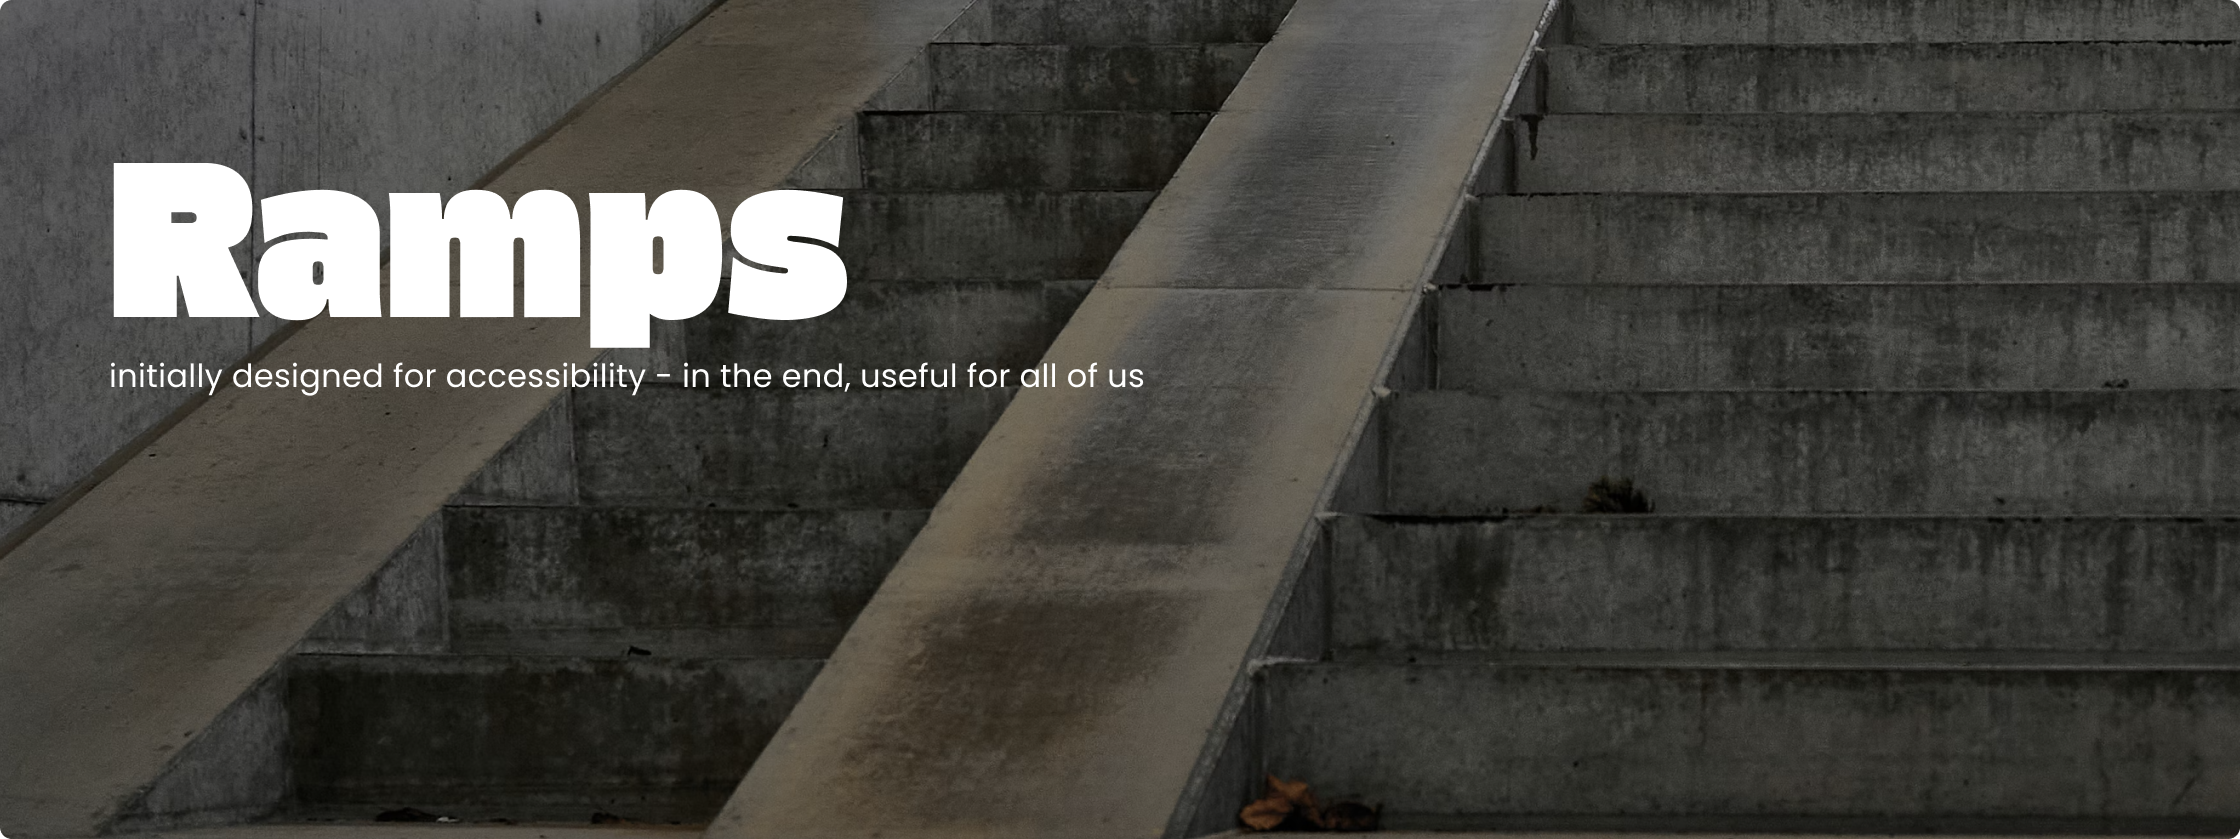
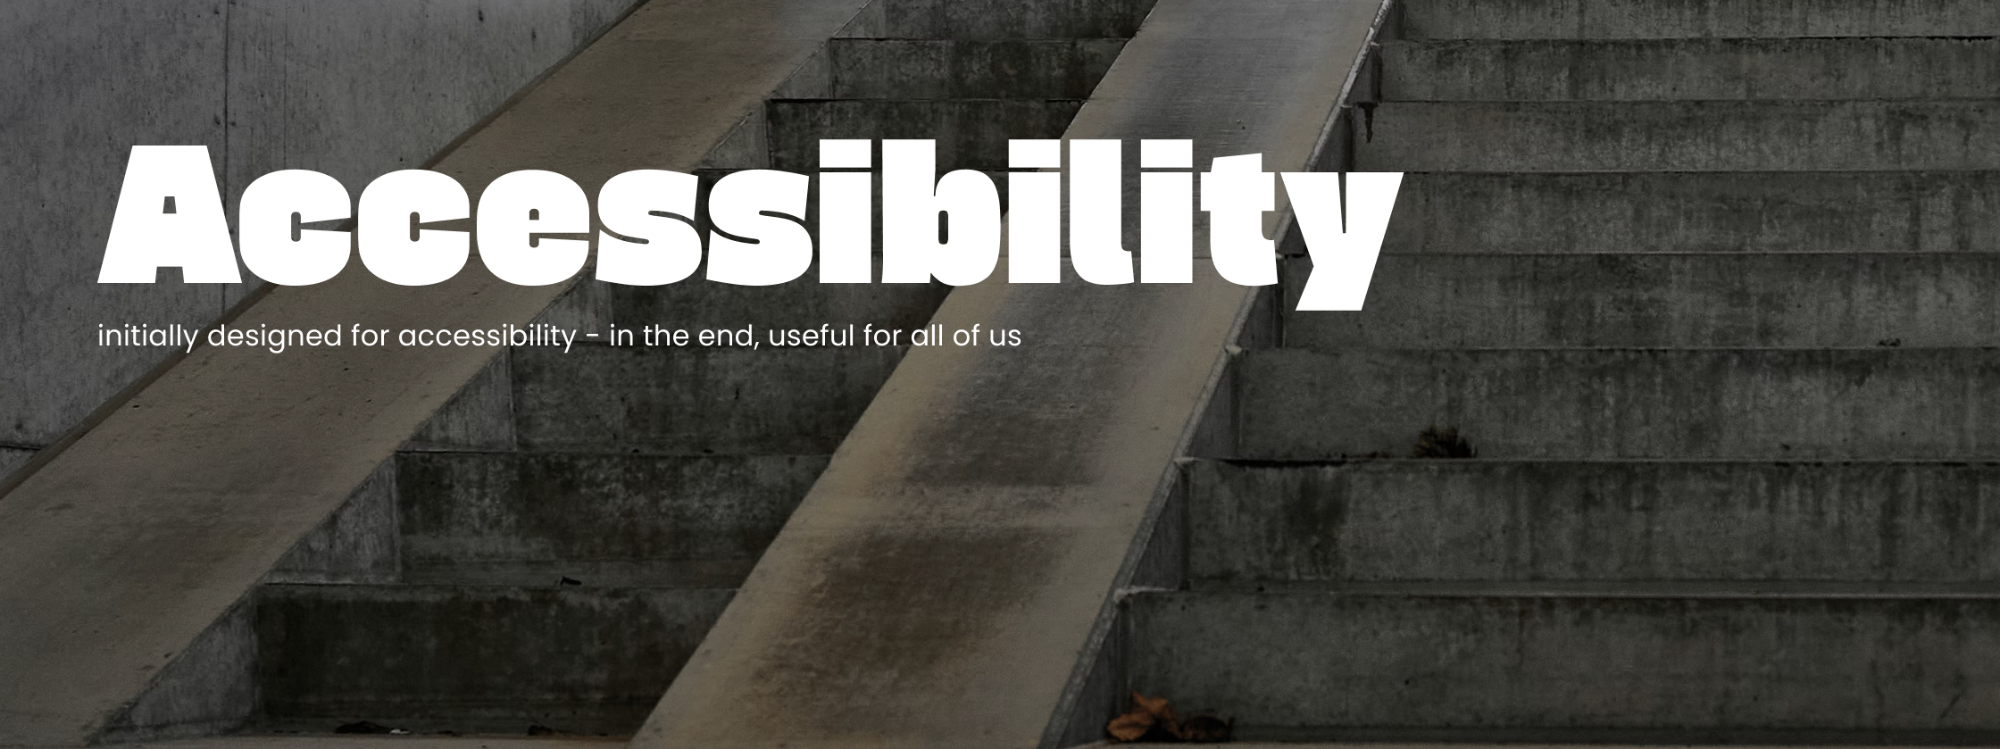
ai hackathon project added

Changed region(s): [[0.031, 0.1842, 0.713, 0.4299], [0.992, 0.9826, 1.0, 1.0]]

diff --git a/work/hackathons.html b/work/hackathons.html
@@ -48,7 +48,133 @@
                 <div class="horizontal__layout">
                     <div>
                         <div class="intro">
-                            <h1 class="intro__description">Design tokens</h1>
+                            <h1 class="intro__description">1. AI hackathon</h1>
+                        </div>
+                        <div class="section__chip__date">
+                            <!-- <div class="circle"></div> -->
+                            <p class="text__chip__section"> November 2024 project</p>
+                        </div>
+                        <p class="default__text">The story of how my team won first place at hackathon with an AI chatbot assistant capable of answering any questions about the design system. 🤖 </p>
+                    </div>
+                </div>
+            </section>
+            <div id="hackathon__heroimage"></div>
+            <img class="hero__image" src="/images/hackathon1_heroimage.webp" alt="Hero image for AI hackathon.">
+
+            <section class="section">
+                <div class="section__chip">
+                    <!-- <div class="circle"></div> -->
+                    <p class="text__chip__section"> 1/4</p>
+                </div>
+                <div class="horizontal__layout">
+                    <div class="paragraph__container">
+                        <h2 class="paragraph__title__project"> About AI hackathon </h2>
+                        <p class="default__text"> From a simple idea to create an AI chatbot to a fully implemented project that won first place at the hackathon 
+                            for the best AI idea.</p>
+                        <p class="default__text"> My colleagues created the chatbot and I helped providing the necessary informations about our
+                            design system, the process and most frequently asked questions so far. I also created the presentation 
+                            and edited the presentational video to share with all the teams.
+                        </p>
+                    </div>
+                    
+                    <div class="vertical__centered__image">
+                        <img class="photo__examples__heroimage" src="/images/ailogo.webp" alt="The design system logo.">
+                    </div>
+                </div>
+            </section>
+
+            <section class="boxes">
+                <div>
+                    <div class="kind__words">
+                        <div class="box__info">
+                            <p class="box__text"> <b>My role: </b> Design system designer </p>
+                        </div>
+                        <div class="box__info">
+                            <p class="box__text"> <b>Project duration: </b>One week</p>
+                        </div>
+                    </div>
+                </div>
+
+                <div>
+                    <div class="kind__words">
+                        <div class="box__info">
+                            <p class="box__text"> <b>The project: </b>A functional AI assistant for our design system, integrated in Microsoft Teams </p>
+                        </div>
+                        <div class="box__info">
+                            <p class="box__text"> <b>About: </b>Hackathons, Artificial intelligence (AI), trainning AI, collaboration, team work, presentation</p>
+                        </div>
+                    </div>
+                </div>
+
+                <section class="section__projects">
+                    <div class="section__chip">
+                        <!-- <div class="circle"></div> -->
+                        <p class="text__chip__section"> 2/4</p>
+                    </div>
+                    <h2 class="paragraph__title__project"> The challenging part </h2>
+                    <p class="default__text"> 👻 Training the AI can be tricky, first of all, it needs to have access to all data about our design system, and if 
+                        the information is wrong or incomplete in a place, <b>the assistant can give the users wrong data.</b> We need to communicate with the teams and be transparent about what are the limitations when using AI and what are the risks.</p>
+                    <p class="default__text"> 🖥 <b>Generate coded content with Copilot</b> using the Fusion design system components library: Teams can use the AI assistant to implement a component in their project, but it's not working perfect all the time,
+                        they still need to double check on the UI Guide and documentation.</p>
+                    <div class="centered__div__80"> 
+                    <img class="hero__image" src="/images/aboutAIAssistant.webp" alt="Fusion Assistant: Generated code, improve efficiency, your AI assistant, instant guidance, continuously evolve, always double check.">
+                    </div>
+                </section>
+
+                <section class="section__projects">
+                    <div class="section__chip">
+                        <!-- <div class="circle"></div> -->
+                        <p class="text__chip__section"> 3/4</p>
+                    </div>
+                    <div class="horizontal__layout">
+                        <div class="paragraph__container">
+                            <h2 class="paragraph__title__project"> Solving the issues </h2>
+                            <p class="default__text"> We came with the idea to create a document with the most frequently asked questions and train our AI assistant with it.
+                                We also trained it after our documentation, UI guide and implemented components.
+                            <p class="default__text">I provided questions and answers for them in order to help the chatbot:</p>
+                                "What is the difference between core components and recipe components?" <br>
+                                "I want to learn more about accessibility." <br>
+                                "What is a design system?" <br>
+                                "What’s new in the design system?" <br>
+                                "What is a disabled state?" <br>
+                                "I want a HTML template and a CSS for a page that contains: a navigation menu, a side panel and a card." <br>
+                                "What are the differences between patterns and recipes?" <br>
+                                "What is the difference between CSS tokens and CSS variables?" <br>
+                                "What is the difference between design tokens and Figma variables?" <br>
+                                "When is the next release?" <br>
+                                "How many teams are using Fusion design system at the moment?" <br>
+                                "How many components are in our design system?" </p>
+                            </div>
+                        
+                        <div class="paragraph__container">
+                            <h2 class="paragraph__title__project__right"> Why did we win? </h2>
+                            <p class="default__text">📡 We showcased strong communication through a clear and engaging presentation, along with a video that effectively demonstrated how the AI assistant works.</p>
+                            <p class="default__text">😇 We were honest and transparent about what we currently have, what isn’t working, the potential risks, and how we plan to address any issues that may arise.</p>
+                            <p class="default__text">⏰ Our idea aims to assist design system users instantly, saving them much more time compared to reaching out to the support channel. I would like to thank our manager for his support and valuable ideas that helped bring this project to life.</p>
+                        </div>
+                    </div>
+                </section>
+
+                <section class="section__projects">
+                    <div class="section__chip">
+                        <!-- <div class="circle"></div> -->
+                        <p class="text__chip__section"> 4/4</p>
+                    </div>
+                    <h2 class="paragraph__title__project"> Learnings and conclusions </h2>
+                    <p class="default__text"> 🎬 AI requires diverse datasets to handle a wide range of scenarios. If the data is too narrow, the AI may not 
+                        generalize well, causing it to fail in situations outside the training examples.</p>
+                    <p class="default__text"> 🤖 Training AI with information is a careful and iterative process that involves constant monitoring, 
+                        tweaking, and testing to achieve desired outcomes.</p>
+                    <p class="default__text"> 💪 Collaboration and synchronization with your colleagues are the most powerful tools when creating and 
+                        experimenting with something new. Thank you folks! 🩵</p>
+                </section>
+
+
+            <section class="section">
+                <div class="horizontal__layout">
+                    <div>
+                        <div class="intro">
+                            <h1 class="intro__description">2. Design tokens hackathon</h1>
                         </div>
                         <div class="section__chip__date">
                             <!-- <div class="circle"></div> -->

diff --git a/work/human-experience.html b/work/human-experience.html
@@ -146,10 +146,10 @@
                     <div>
                         <h2 class="paragraph__title__project"> Three real life examples </h2>
                         <p class="default__text"> When designers focus on specific user needs, they push themselves to think in new ways, which leads to more creative, flexible, and thoughtful solutions that end up helping more people than they first expected. </p>
-                <img class="photo__examples__heroimage" src="/images/ramp.webp" alt="Ramps: initially designed for accessibility - in the end, useful for all of us">
+                <img class="photo__examples__heroimage" src="/images/ramp.webp" alt="Accessibility: initially designed for accessibility - in the end, useful for all of us">
                 <div class="horizontal__layout">
                     <div>
-                        <p class="default__text"> <b>1.The purpose of ramps:</b> The main reason for a ramp is to help people in wheelchairs get around, but it also helps parents 
+                        <p class="default__text"> <b>1.Design with accessibility in mind:</b> The main reason for a ramp is to help people in wheelchairs get around, but it also helps parents 
                             with children in strollers, delivery workers with carts and anyone who finds stairs hard to use (and for Kung Fu Panda).</p>
                         <p class="default__text"> Awareness note: In fact, it makes things easier for everyone, not just those with special needs that are facing permanent, 
                         temporary or situational limitations.</p>
@@ -160,12 +160,13 @@
                 </div>
 
             <section class="section__projects">
-                <img class="photo__examples__heroimage" src="/images/directions.webp" alt="Directions: design a product that provide everything an end user need">
-                <p class="default__text"> <b>2.Provide clear directions: </b> When designing a product, even if it’s a physical or digital one, we need to always 
+                <img class="photo__examples__heroimage" src="/images/usability.webp" alt="Usability: design a product that is intuitive and efficient to interact with, ensuring a seamless experienced">
+                <p class="default__text"> <b>2.Think about usability: </b> When designing a product, even if it’s a physical or digital one, we need to always 
                     think about functionality and test how users interact with it. I saw a very nice touch at <a class="text-highlight" target="_blank" href="https://www.gramprague.cz/en">Gram restaurant</a> in Prague, they have glass 
                     doors and on the floor they have arrows that help you see in which direction is the door opening.</p>
-                <p class="default__text"> Awareness note: If you are visiting a country where you don't understand the language, the stickers with text: 
-                    "push/pull" on the door can be a problem. </p>
+                <p class="default__text"> Awareness note: When visiting a country where you don’t understand the language, text-only labels like "push" or "pull" 
+                    on doors can be confusing. In such cases, providing additional visual cues, such as arrows or symbols alongside the text, helps everyone 
+                    understand how to operate the door, regardless of language - this improves accessibility and reduces confusion. </p>
             </section>
 
             <section class="section__projects">

diff --git a/about.html b/about.html
@@ -72,21 +72,21 @@
                             <div class="selectedWork__entry__description">
                                 <h2 class="selectedWork__entry__description__title"> What about my skills? </h2>
                                 <p class="selectedWork__entry__description__text"> I'm always focused on solving the business problems by leveraging 
-                                my skills in user interface, accessibility, user experience and at the same time continuously working on my development
+                                my skills in user interface and user experience design, and at the same time continuously working on my development
                                 skills to better understand the dev team constraints. I am a great team player and being a design system specialist,
-                                my nature is to be transparent, inclusive, communicative, creative and always open to feedback. My work process usually
-                                goes from asking the why, research, understanding user and customer requirements, A/B testing, rapid sketching up to ready for 
-                                development designs and providing support and detailed documentation. </p>
+                                my nature is to be transparent, inclusive, communicative, creative and always open to feedback. <!-- My work process varies based 
+                                on the project, but usually goes from asking the why, research, understanding user and customer requirements, A/B testing, 
+                                rapid sketching up to ready for development designs and providing support and detailed documentation. </p> -->
                             </div>
                         </div>
                         <div class="selectedWork__entry">
                             <div class="selectedWork__entry__description">
                                 <h2 class="selectedWork__entry__description__title"> What are my values? </h2>
-                                <p class="selectedWork__entry__description__text"> First of all, <i>always be kind. </i> We're all human, and building
+                                <p class="selectedWork__entry__description__text"> First of all, <i>always be kind. </i> We're all human and building
                                     strong connections with others can positively impact our work and contribute to the overall health of the company. 
-                                    Building strong relationships through trust, respect, and kindness is a significant milestone, and creating 
-                                    a safe space for learning, growth, and continuous improvement is an art. All above plus being humble, 
-                                    unlocking your potential, being organized, seeking feedback, showing empathy, and valuing people’s 
+                                    Building strong relationships through trust, respect and kindness is a significant milestone, and creating 
+                                    a safe space for learning, growth and continuous improvement is an art. Being humble, organized, 
+                                    unlocking your potential, seeking feedback, showing empathy & valuing people’s 
                                     time are just a few of the core values I live by. </p>
                             </div>
                         </div>

diff --git a/index.html b/index.html
@@ -82,7 +82,7 @@
 
                         <div class="selectedWork__entry__description">
                             <h2 class="selectedWork__entry__project__name"> Design system & documentation @Waters </h2>
-                            <p class="selectedWork__entry__description__text"> Created the single-source of truth documentation for Waters design system, increasing the number of applications that use it by 72.2%. </p>
+                            <p class="selectedWork__entry__description__text"> Work on the design system and the single-source of truth documentation for Waters, increasing the number of applications that use it by 72.2%. </p>
                             <a href="work/waters-documentation.html" class="cbl custom__button">See project <span class="custom__button__icon"></span></a>
                         </div>
                     </div>
@@ -98,9 +98,9 @@
                             src="/images/hackathon_1000.webp"
                             alt="A story about a Christmas hackathon" />
                         <div class="selectedWork__entry__description">
-                            <h2 class="selectedWork__entry__project__name"> Design tokens @Waters </h2>
-                            <p class="selectedWork__entry__description__text"> A fun Christmas hackathon project about how I upskilled and improved the syncing for design tokens between design and code. </p>
-                            <a href="/work/design-tokens.html" class="custom__button"> See project <span class="custom__button__icon"></span></a>
+                            <h2 class="selectedWork__entry__project__name"> Hackathons @Waters </h2>
+                            <p class="selectedWork__entry__description__text"> Two exciting projects showcasing how I upskilled and enhanced the design system experience, with one of them winning first place in the organization for the best AI. </p>
+                            <a href="/work/hackathons.html" class="custom__button"> See project <span class="custom__button__icon"></span></a>
                     </div>
                 </div>
                     <div class="work__entry__empty"> </div>

diff --git a/styles/styles_projects.css b/styles/styles_projects.css
@@ -150,6 +150,7 @@
 .photo__examples__heroimage {
     max-width: 100%;
     margin: 20px 0px;
+    border-radius: 6px;
 }
 
 .section__thankyou {
@@ -182,10 +183,12 @@
 
     .photo__examples__heroimage {
         margin-top: 12px;
+        border-radius: 6px;
     }
 
     .photo__panda {
         margin-top: 10px;
+        border-radius: 4px;
     }
 
     .paragraph__title__project__right {
@@ -196,6 +199,14 @@
         display: block;
         margin-right: auto;
         width: 100%;
+    }
+
+    .hero__image {
+        border-radius: 4px;
+    }
+
+    .photo__examples__heroimage {
+        border-radius: 4px;
     }
 
     .centered__div__70 {

diff --git a/styles/styles.css b/styles/styles.css
@@ -576,6 +576,10 @@ body {
         margin: 6rem 0 0 0;
     }
 
+    .boxes {
+        margin: 2rem 0 0 0;
+    }
+
     .content {
         padding: 0 60px;
     }
